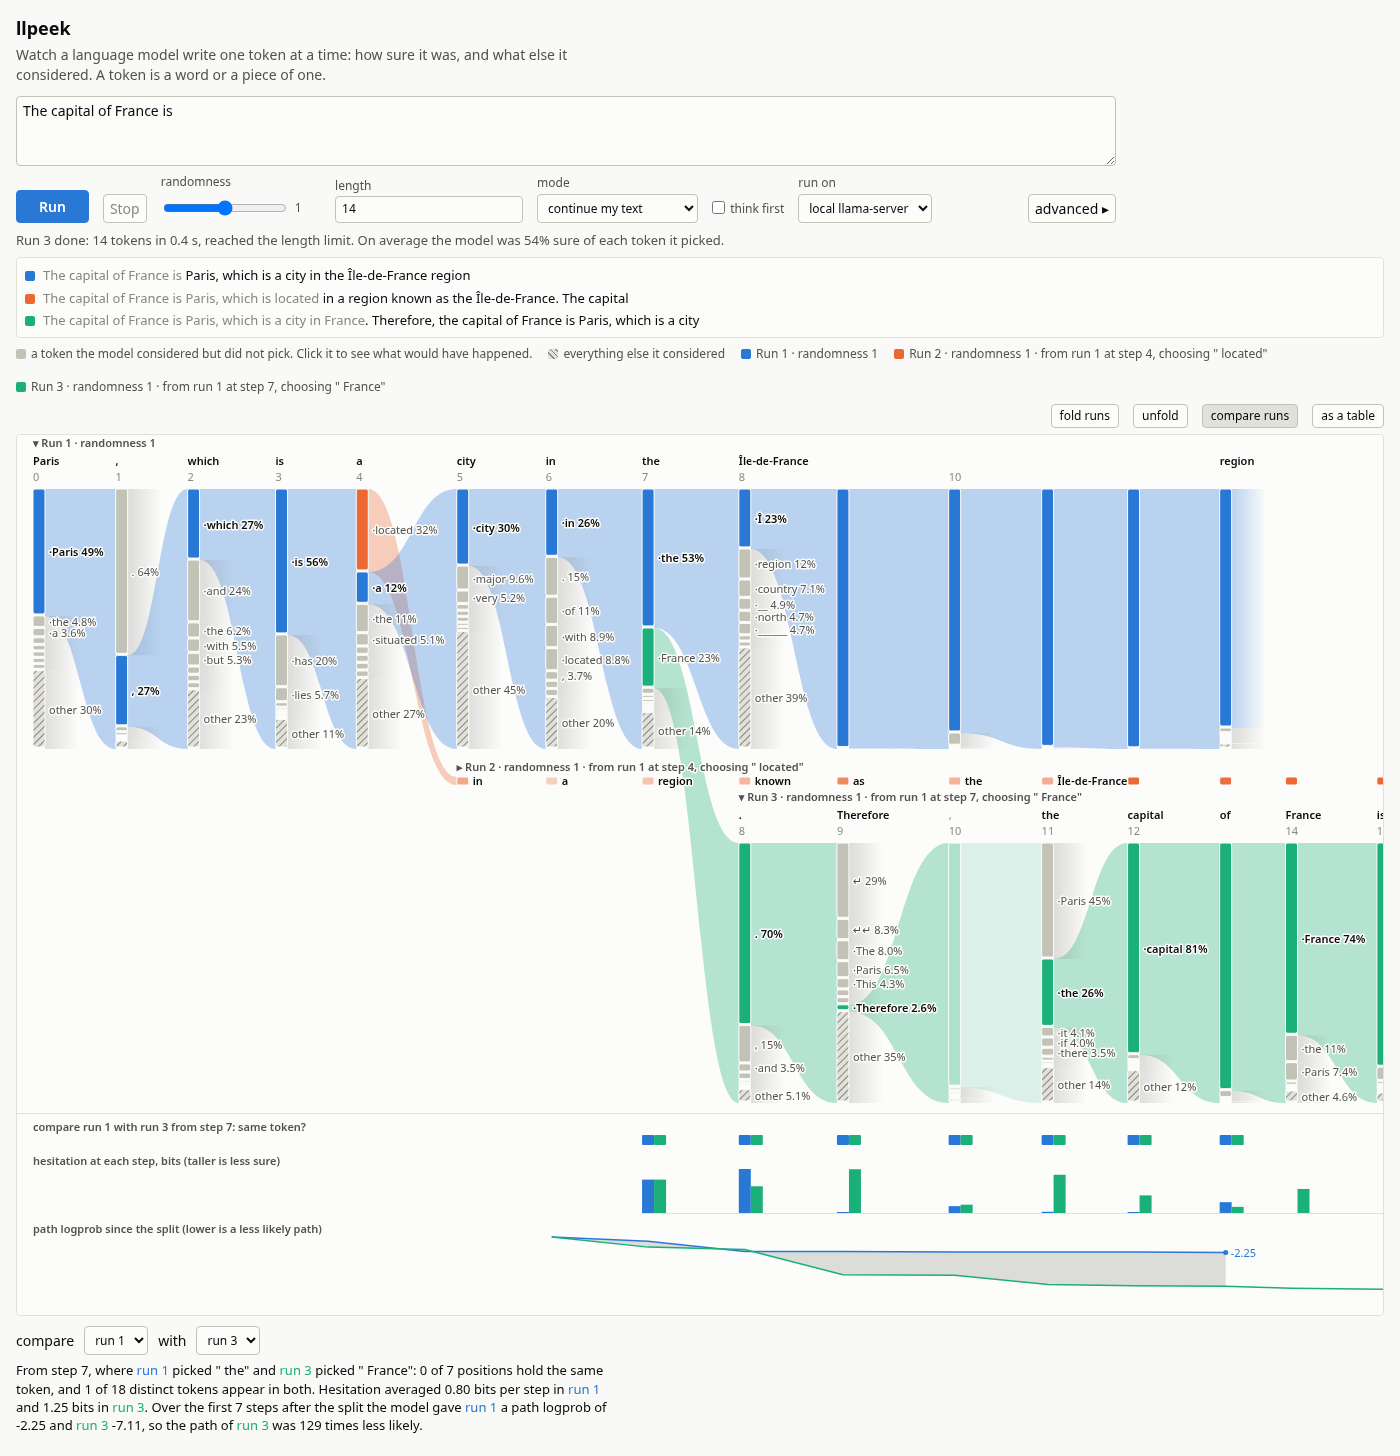
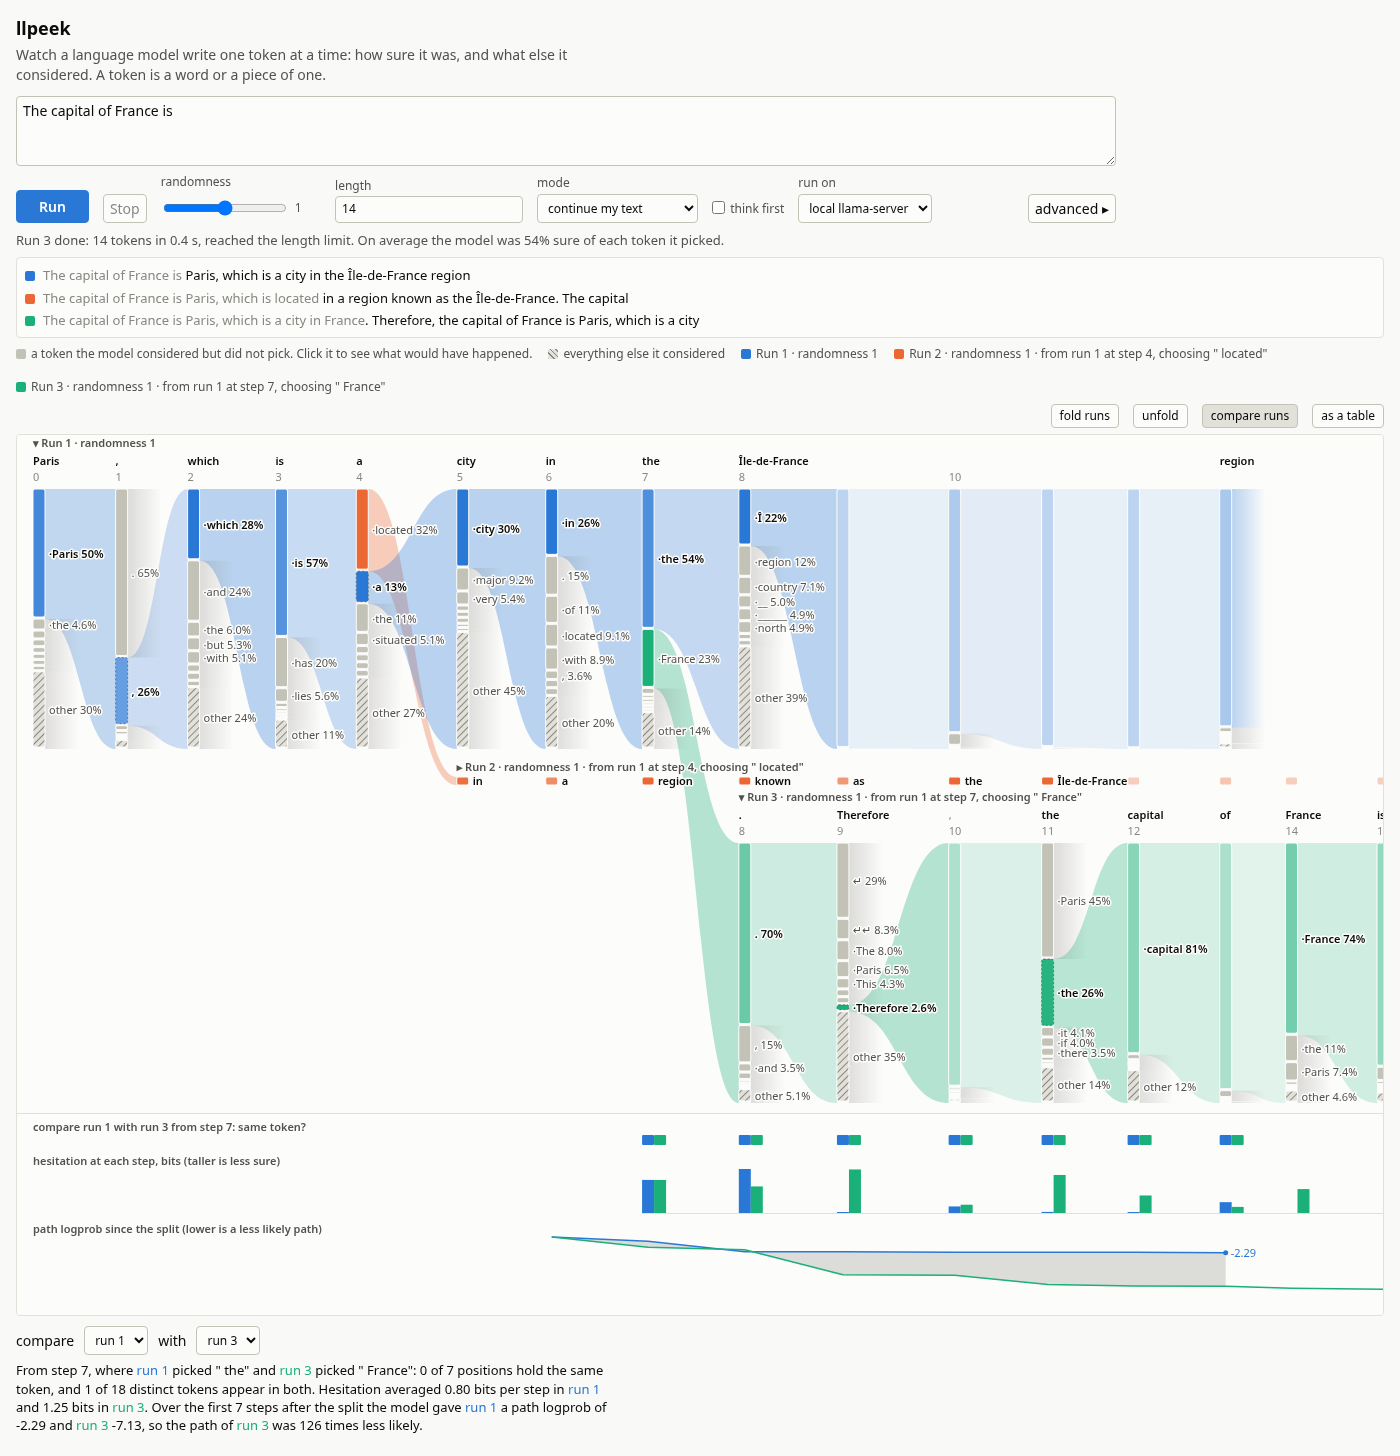
1

diff --git a/docs/app.html b/docs/app.html
@@ -133,7 +133,8 @@
   #chart rect.cand:hover { stroke: var(--ink); }
   #chart rect.node { stroke: var(--surface); stroke-width: 1px; cursor: pointer; }
   #chart rect.hit { fill: transparent; cursor: pointer; }
-  #chart .col.sel rect.chosen { stroke: var(--ink); stroke-width: 1.5px; }
+  #chart rect.offtop { stroke: var(--ink-2); stroke-width: 1px; stroke-dasharray: 2 2; stroke-opacity: 0.7; }   /* sampled below the top pick: where randomness bit */
+  #chart .col.sel rect.chosen { stroke: var(--ink); stroke-width: 1.5px; stroke-dasharray: none; }
   #tip { position: fixed; pointer-events: none; display: none; background: var(--surface); color: var(--ink);
          border: 1px solid var(--line); border-radius: 4px; padding: 6px 8px; font-size: 12px;
          box-shadow: 0 2px 8px rgba(0,0,0,0.15); z-index: 10; max-width: 320px; }
@@ -569,6 +570,10 @@ if (!crossOriginIsolated && 'serviceWorker' in navigator && window.isSecureConte
   // symbols (newline, parenthesis, comma, quote, markdown stars), or one whose
   // options were almost all whitespace. Punctuation of the trace, not a decision.
   const isQuiet = (step) => !isOpen(step) && (/^[\s\p{P}\p{S}]+$/u.test(step.token) || wsMass(step) >= CLOSED_P);
+  // Visual weight of a step is its hesitation, not its probability: a sure step
+  // (top candidate near 1) is drawn faint, so the eye lands where the model
+  // deliberated. 0.3 at certainty, full strength once the top pick is under 40%.
+  const emphasis = (step) => 0.3 + 0.7 * Math.min(1, (1 - (step.candidates[0]?.prob ?? 0)) / 0.6);
   // Text for the output line: quiet whitespace collapses to nothing, a leading
   // space is dropped (the column gap separates tokens), other whitespace is visible.
   const pieceText = (step) => step.text ?? step.token;
@@ -718,7 +723,7 @@ if (!crossOriginIsolated && 'serviceWorker' in navigator && window.isSecureConte
         // collapsed: one small cell per sampled token, opacity by probability
         run.steps.forEach((step, i) => {
           const x = xs[run.start + i];
-          const rect = el('rect', { x, y: MINI_TOP, width: NODE_W, height: MINI_H, rx: 2, fill: color(run), 'fill-opacity': isQuiet(step) ? 0.2 : 0.25 + 0.75 * step.prob, class: 'node mini' }, lane);
+          const rect = el('rect', { x, y: MINI_TOP, width: NODE_W, height: MINI_H, rx: 2, fill: color(run), 'fill-opacity': isQuiet(step) ? 0.2 : emphasis(step), class: 'node mini' }, lane);
           rect._info = { run, step, row: { ...step, kind: 'chosen' }, g: run.start + i, child: null };
         });
         drawLine(run, lane, xs.map((x) => x + NODE_W + 4), MINI_TOP + MINI_H, 1);
@@ -740,7 +745,7 @@ if (!crossOriginIsolated && 'serviceWorker' in navigator && window.isSecureConte
         }
       }
       run.steps.forEach((step, i) => {
-        const g = run.start + i, x = xs[g], w = colCur[g], open = isOpen(step), quiet = isQuiet(step), rows = layout(step);
+        const g = run.start + i, x = xs[g], w = colCur[g], open = isOpen(step), quiet = isQuiet(step), rows = layout(step), emph = emphasis(step);
         const xNext = xs[g + 1], stub = Math.min(STUB, Math.max(6, w - NODE_W - 4));
         for (const r of rows) { r.y0 = top + (r.y0 - TOP) * f; r.y1 = top + (r.y1 - TOP) * f; r.h *= f; }
         const col = el('g', { class: 'col' + (isSel(run, i) ? ' sel' : ''), opacity: 1 }, lane);
@@ -761,7 +766,7 @@ if (!crossOriginIsolated && 'serviceWorker' in navigator && window.isSecureConte
           const h = Math.max(0, r.h - GAP * f);
           const child = r.kind === 'cand' && runs.find((b) => b.parent === run && b.forkStep === g && b.forced.id === r.id);
           if (r.kind === 'chosen' && i + 1 < run.steps.length) {
-            el('path', { d: ribbon(x + NODE_W, yOff + r.y0, yOff + r.y1, xNext, yOff + top, yOff + top + colH), fill: soft(run), 'fill-opacity': quiet ? 0.45 : 1 }, links);
+            el('path', { d: ribbon(x + NODE_W, yOff + r.y0, yOff + r.y1, xNext, yOff + top, yOff + top + colH), fill: soft(run), 'fill-opacity': quiet ? 0.45 : emph }, links);
           } else if (child) {
             const ci = runs.indexOf(child), cg = laneGeom(child), cy = offs[ci];
             const [b0, b1] = cg.f === 0 ? [cy + MINI_TOP, cy + MINI_TOP + MINI_H] : [cy + cg.top, cy + cg.top + cg.colH];
@@ -771,7 +776,9 @@ if (!crossOriginIsolated && 'serviceWorker' in navigator && window.isSecureConte
             el('path', { d: ribbon(x + NODE_W, yOff + r.y0, yOff + r.y1, x + NODE_W + stub, yOff + r.y0, yOff + r.y1), fill: `url(#${grad})` }, links);
           }
           const fill = r.kind === 'chosen' ? color(run) : child ? color(child) : r.kind === 'cand' ? 'var(--cand)' : 'url(#hatch)';
-          const rect = el('rect', { x, y: r.y0, width: NODE_W, height: h, rx: 2, fill, class: 'node ' + r.kind + (quiet ? ' quiet' : '') }, col);
+          const offtop = r.kind === 'chosen' && step.rank !== 0;
+          const rect = el('rect', { x, y: r.y0, width: NODE_W, height: h, rx: 2, fill, class: 'node ' + r.kind + (quiet ? ' quiet' : '') + (offtop ? ' offtop' : ''),
+            ...(r.kind === 'chosen' && !quiet ? { 'fill-opacity': emph } : {}) }, col);
           rect._info = { run, step, row: r, g, child };
           // closed column: only the sampled token, without a percentage (the node says it)
           // Node labels only in open columns; closed columns are read from the output line.
@@ -1021,6 +1028,17 @@ if (!crossOriginIsolated && 'serviceWorker' in navigator && window.isSecureConte
     };
     const tech = (r) => adv ? ` <span class="m">id ${r.id}, logprob ${r.logprob.toFixed(3)}</span>` : '';
     const rankWord = (rk) => rk === 0 ? 'its top pick' : rk < 0 ? 'outside the candidates shown' : `its number ${rk + 1} pick`;
+    // A sampled token below the top pick carries the dotted outline; say what
+    // happened: randomness drew it, or the top pick was blocked (thinking off).
+    const offTop = () => {
+      const top = step.candidates[0];
+      if (row.kind !== 'chosen' || step.rank === 0 || !top) return '';
+      const blocked = (run.params.logit_bias ?? []).some(([t]) => t === top.id || t === top.token);
+      const why = blocked
+        ? `${esc(JSON.stringify(top.token))} at ${pct(top.prob)} was the model's top pick, but it is blocked because thinking is off, so the sampler drew this instead`
+        : `the model's top pick was ${esc(JSON.stringify(top.token))} at ${pct(top.prob)}; at randomness ${run.params.temperature} the sampler drew this one instead${step.rank < 0 ? ', from beyond the candidates shown' : ''}`;
+      return `<br><span class="m">Dotted outline: ${why}. The text changed here.</span>`;
+    };
     if (row.kind === 'post') {
       tip.innerHTML = `<b>${esc(JSON.stringify(row.token))}</b><br>${pct(row.prob)} chance after the sampler's filters` +
         ` <span class="m">(${step.post.top.length} token${step.post.top.length === 1 ? '' : 's'} left at step ${g})</span>`;
@@ -1033,7 +1051,7 @@ if (!crossOriginIsolated && 'serviceWorker' in navigator && window.isSecureConte
       : `<b>${esc(JSON.stringify(row.token))}</b>${tech(row)}<br>` +
         `the model gave this a <b>${pct(row.prob)}</b> chance<br>` +
         (row.kind === 'chosen'
-          ? `<span class="m">picked at step ${g} in run ${run.n}, ${rankWord(step.rank)}${adv ? `; path logprob ${cum.toFixed(2)}` : ''}</span>`
+          ? `<span class="m">picked at step ${g} in run ${run.n}, ${rankWord(step.rank)}${adv ? `; path logprob ${cum.toFixed(2)}` : ''}</span>` + offTop()
           : child ? `<span class="m">step ${g}, ${rankWord(row.rank)}; explored as run ${child.n}</span>`
                   : `<span class="m">step ${g}, ${rankWord(row.rank)}, not picked. Click to see what would have followed.</span>`) +
         postLine(row.id);

diff --git a/docs/index.html b/docs/index.html
@@ -66,7 +66,7 @@
 </header>
 
 <a class="shot" href="screenshot-dark.png"><img src="thumb-dark.png" alt="llpeek showing a Sankey of candidate tokens per step for the prompt 'The capital of France is', two runs branched where the model considered ' located' and ' France', and compare tracks below lining up the last branch with the first run"></a>
-<p class="caption">Two runs of "The capital of France is". At step 4 the model picked " Paris" but had also considered " Lyon"; clicking that gray node started the orange run, which shows what the model would have written next.</p>
+<p class="caption">Three runs of "The capital of France is". At step 4 the model picked " a" but had put more weight on " located"; clicking that gray node started the orange run. The green run branches at step 7 on " France", and the tracks below line it up with the first run: which tokens match, how much the model hesitated, and how far the path probability drifts.</p>
 
 <h2>How to read it</h2>
 <p>A language model does not write words. At every step it scores every token in its vocabulary, a token being a word or a piece of one, and a sampler picks one. llpeek draws that step as a column.</p>

diff --git a/agent_docs/architecture-app.md b/agent_docs/architecture-app.md
@@ -170,6 +170,8 @@ block: `H` (column height), `NODE_W`, `PITCH` (column spacing), `GAP`, `STUB`.
 | ribbon to the next column       | the sampled node fans out to the full height of the next column, because the next distribution is conditional on it |
 | fading stub                     | a branch not taken; the data holds nothing beyond it               |
 | node order                      | probability desc, so a sampled node low in its column means the sampler picked a low-ranked token |
+| fill opacity of the sampled node and its ribbon | hesitation, not probability (`emphasis`): 0.3 when the top candidate is near 1, full strength once it is under 40%, so sure stretches recede and deliberation stands out. Quiet columns stay at 0.35 |
+| fine dotted outline (`rect.offtop`, `--ink-2` at 0.7, 1 px) | the sampled token was not the top candidate (`rank !== 0`): where randomness changed the text. Its tooltip names the top pick and its probability and says the sampler drew this one at the run's randomness, or that the top pick was blocked (`<think>` with thinking off). Not drawn on collapsed strips; selection uses a solid outline |
 
 Only sampled and forked nodes have real flows. Everything else is a stub because
 llama-server only returns the path it generated. Clicking a stub forks a branch.
@@ -279,7 +281,7 @@ add new motion by extending the tween state, so one loop owns all motion.
 - Query string: any control id as a parameter prefills it (`base`, `prompt`,
   `n_predict`, `n_probs`, `temperature`, `top_k`, `top_p`, `min_p`, `seed`,
   `closed_p`; `chat=1` selects assistant mode, `think=1`, `post=1`,
-  `advanced=1`, `compare=1` opens the compare view; `engine=browser` plus
+  `advanced=1`, `compare=0` hides the compare view, which is on by default; `engine=browser` plus
   optional `model=<url>` loads a model first); `run=1` starts a run on load; `branch=<step>:<rank>` or
   `branch=<step>:<token text>` (repeatable) then forks the first run at that
   global step taking the rank-th unchosen candidate, or the candidate whose

diff --git a/agent_docs/plan.md b/agent_docs/plan.md
@@ -126,6 +126,9 @@ with three lanes.
 - [x] "Other" bucket computed over the candidates shown (2026-09-27), so a
       column with a beyond-top-K sample sums to 1.
 - [x] Closed-column threshold adjustable under advanced (`closed_p`, 2026-09-27).
+- [x] Emphasis by hesitation (2026-09-27): sampled nodes and ribbons fade with
+      certainty; a dashed outline marks picks below the top candidate. The
+      geometry is unchanged, only the ink weight.
 
 **Verify:** `deno task headless "<app>?run=1&engine=server&base=http://localhost:8089&prompt=The%20capital%20of%20France%20is&n_predict=8&seed=3&temperature=1.0&branch=4:1&compare=1" 90 "document.querySelectorAll('#chart .cmp rect').length + ' | ' + document.getElementById('compare').innerText"`
 prints a rect count above zero and a summary starting "From step 4". `deno task shot`

diff --git a/README.md b/README.md
@@ -24,6 +24,10 @@ you can read.
 How to read the chart: each column is one generated token. Node height is
 probability. The colored node is the token that was sampled, gray nodes are
 candidates that were not, and the hatched node is everything outside the top-K.
+Color strength is hesitation: a step the model was sure of is drawn faint, a
+step it deliberated over is drawn strong. A dashed outline marks a sampled
+token that was not the model's top pick, which is where randomness changed
+the text.
 The ribbon carries the sampled token into the next step. The fading stubs mark
 the candidates that were not picked. Click one to branch from there.
 
